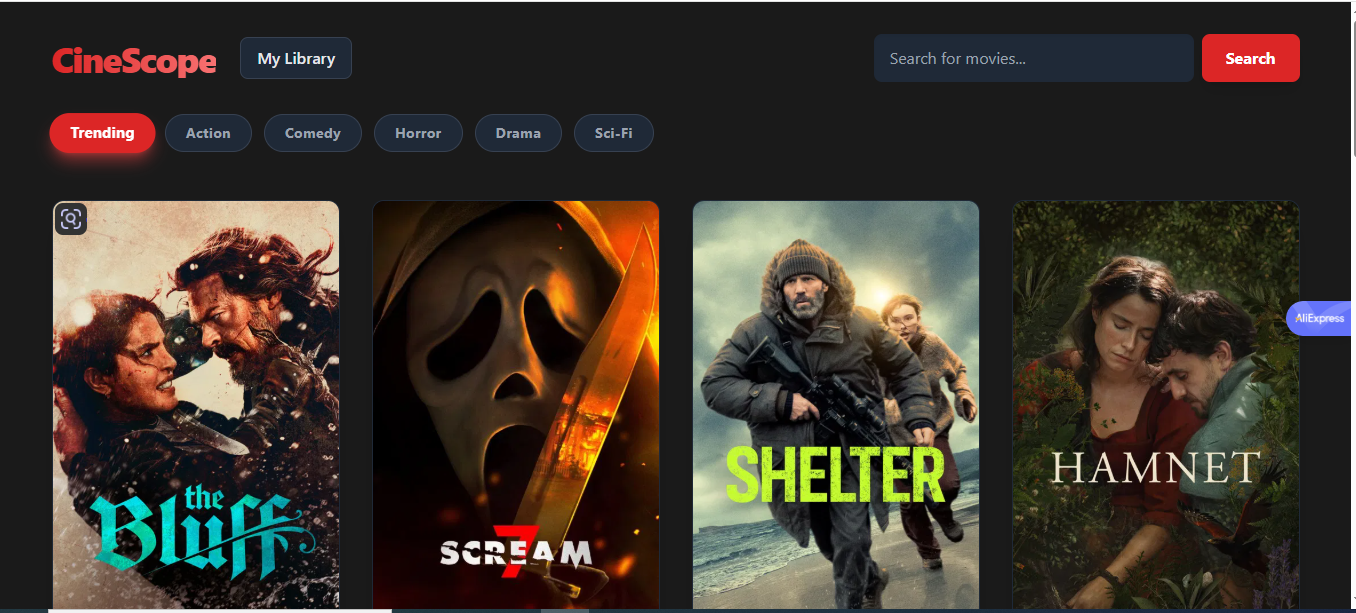
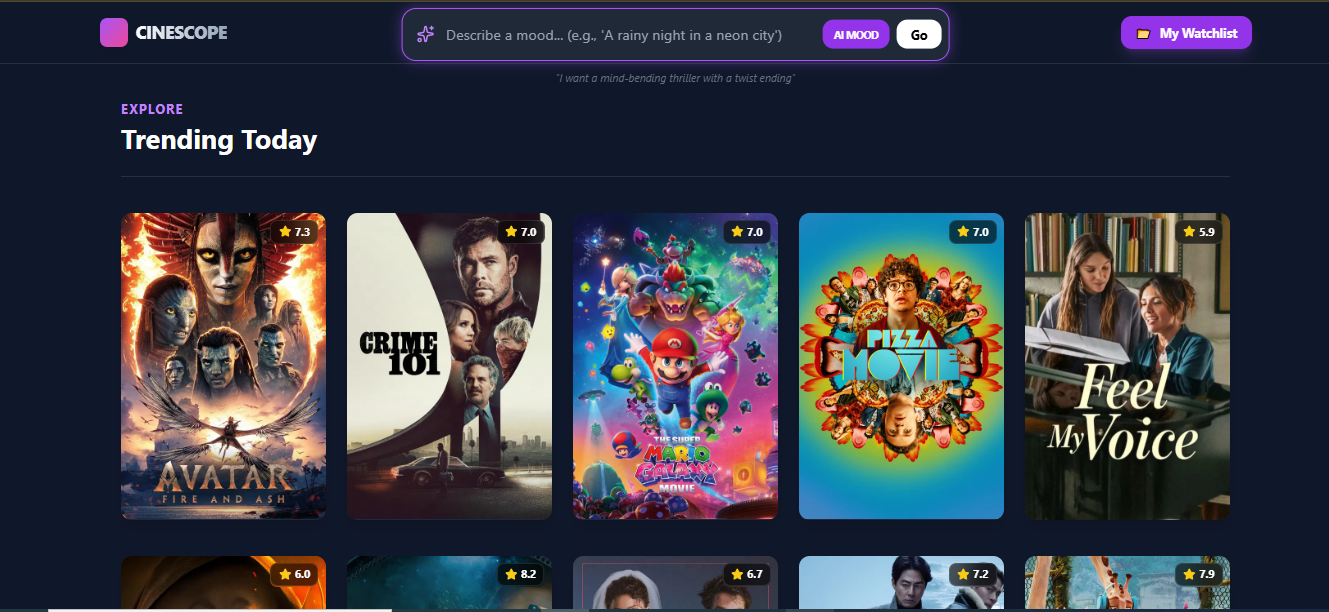
feat: AI powered movie discover feature added

diff --git a/src/app/components/Projects.tsx b/src/app/components/Projects.tsx
@@ -12,8 +12,8 @@ export const myProjects = [
   {
     title: "CineScope Movie Explorer",
     image: "/projects/cinescope.png",
-    description: "A high-performance movie database using TMDB API. Includes dynamic routing, watchlist persistence, and a polished UI with Tailwind CSS.",
-    tags: ["React", "Tailwind CSS", "REST API", "Context API"],
+    description: "A sophisticated MERN-stack application that redefines movie discovery through Artificial Intelligence. CineScope AI leverages the Gemini API to provide Mood-Based Search, allowing users to find films through natural language descriptions rather than just titles.",
+    tags: ["React", "Tailwind CSS", "REST API", "Context API","Google AI API"],
     github: "https://github.com/dinuw2002/cinescope",
     live: "https://cinescope-zeta-opal.vercel.app/"
   },
